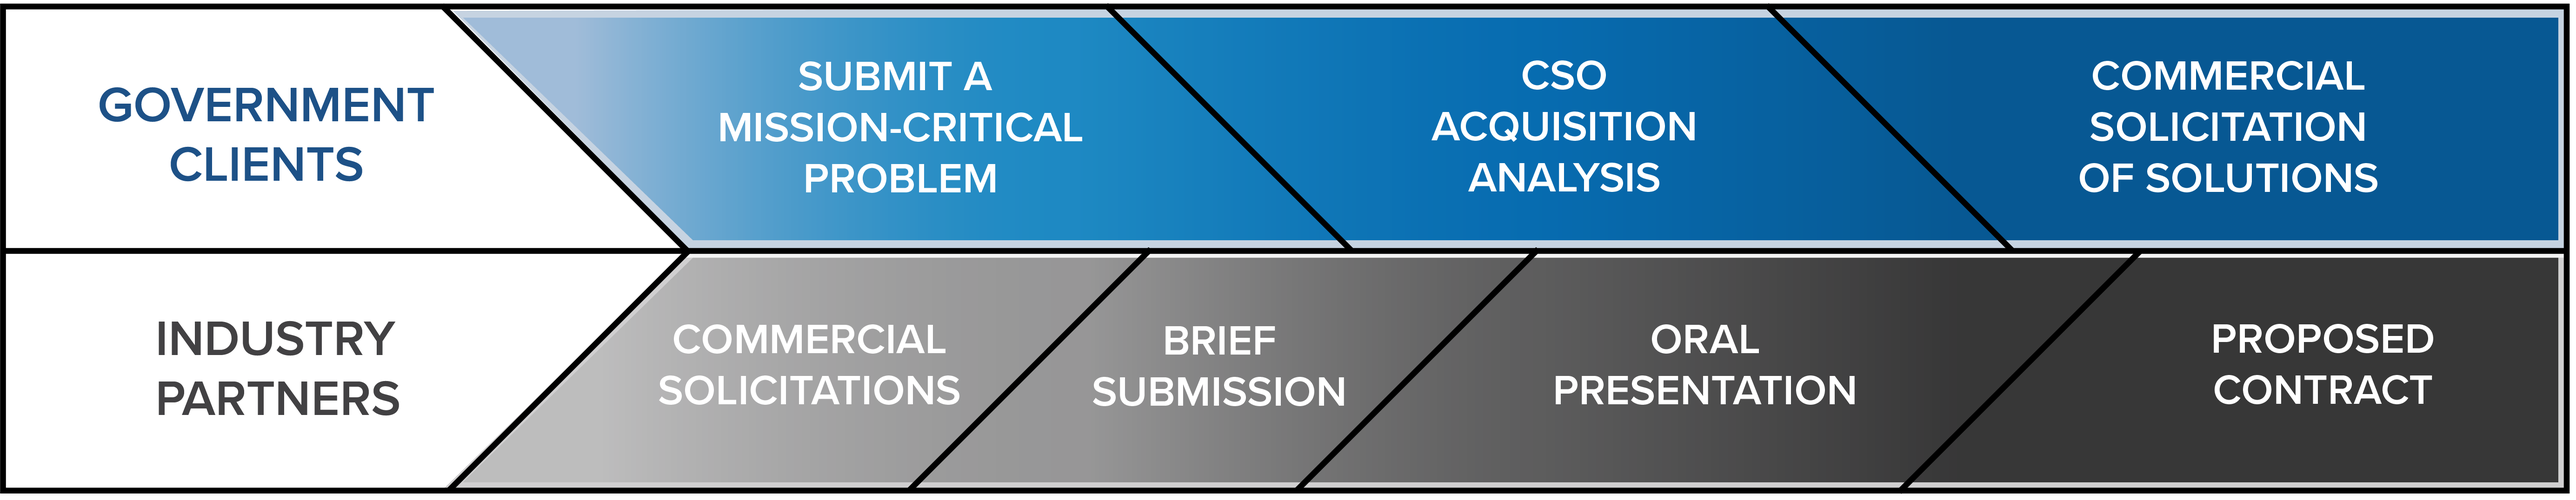
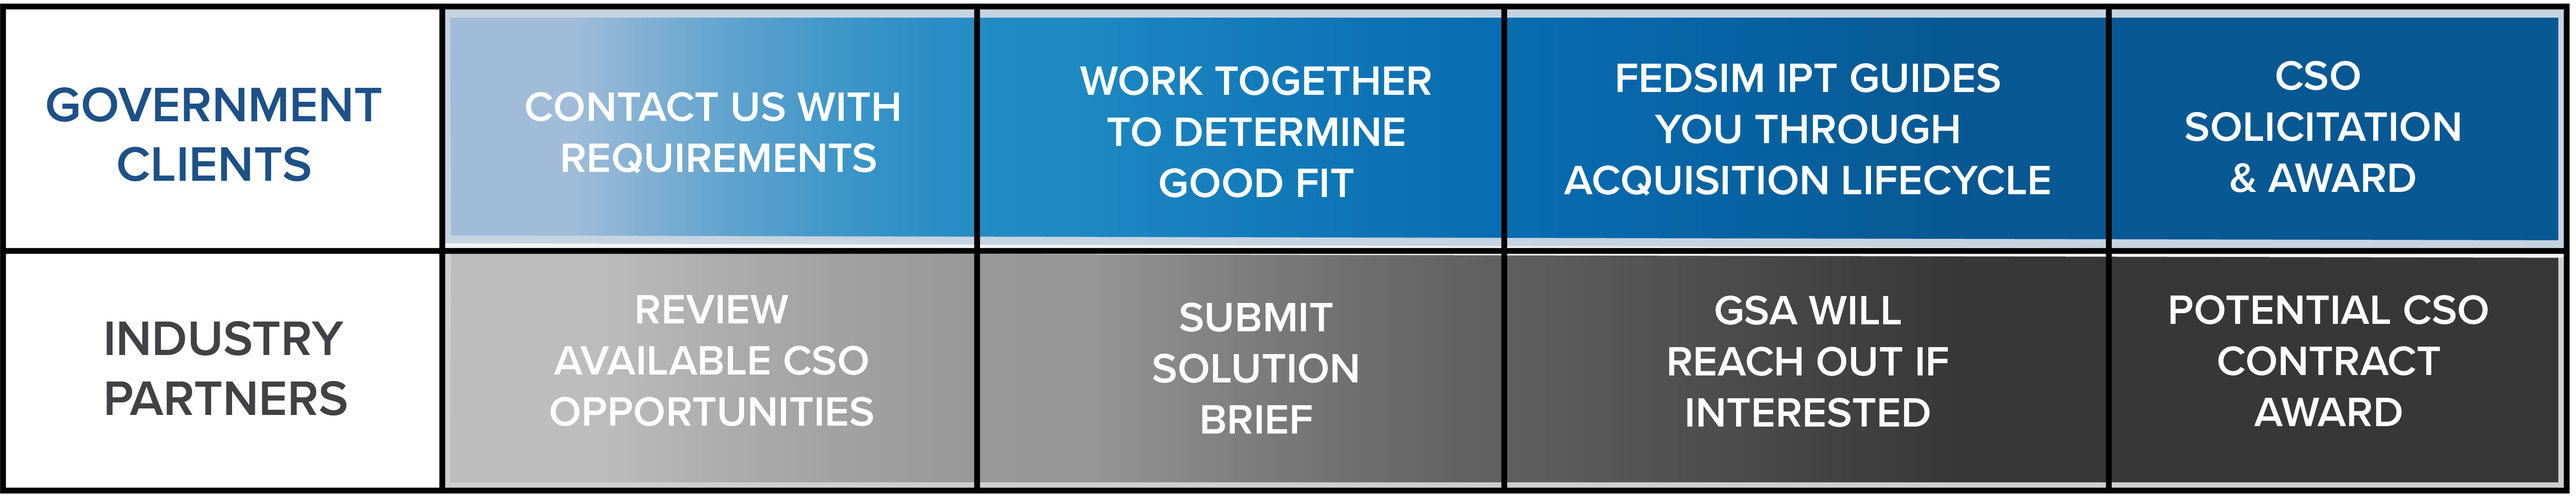
Updated CSO

diff --git a/_includes/cso.html b/_includes/cso.html
@@ -1,5 +1,21 @@
 
+<div class="flex-wrapper-big submenubar v-buffer">
+    <div class="one-fourth section-btn">
+        <a href="#programs"><b>CSO Programs</b></a>
+    </div>
+
+    <div class="bio-spacer"></div>
+
+    <div class="one-fourth section-btn">
+        <a href="#opportunities"><b>CSO Opportunities</b></a>
+    </div>
+</div>
+
 <div class="flex-wrapper-big">
+    {% asset CSO_CHART_FINAL.png alt="CSO" %}
+</div>
+
+<div id="programs" class="flex-wrapper-big">
     <div class="infoblock">
         <h2>Commercial Solutions Opening (CSO) Program</h2>
         <p>The General Services Administration (GSA) established a pilot program to competitively 
@@ -8,14 +24,11 @@
     </div>
 </div>
 
-<div class="flex-wrapper-big">
-    {% asset CSO_CHART_FINAL.png alt="CSO" %}
-</div>
+
 
 <div class="flex-wrapper-big">
     <div class="infoblock">
         <h2>Interested in learning more?</h2>
-        <br>
     </div>
 </div>
 
@@ -38,7 +51,7 @@
             <h2>Industry Partners</h2>
             <p class="learnblock-hover-text">You can respond to compete on an opportunity by submitting a brief about your solution. 
                 If there is a good match between your solution and our client's requirements, 
-                you may be invited to submit a full proposal.</p>
+                you will be asked to provide a full proposal.</p>
         </div>
     </div>
 </div>
@@ -63,12 +76,12 @@
     </div>
 </div>
 <hr class="highlight-line">
-<div class="flex-wrapper-big">
+<div id="opportunities" class="flex-wrapper-big">
     <div class="infoblock">
         <h3>Submit a Commercial Solutions Opening (CSO) Solution Brief</h3>
         <p>FEDSIM is accepting solutions briefs in response to the CSO solicitation(s) openings below. 
             Submissions received after indicated time periods will not be considered. 
-            Please review the example <a href="https://fedsim.gsa.gov/PIRC_CSO_Solicitation_Terms-and-Conditions_Sections_6-7.pdf" target="_new"><b>terms and conditions</b></a>, 
+            Please review the example <a href="https://fedsim.gsa.gov/PIRC_CSO_Solicitation_Terms-and-Conditions_Sections_6-7.pdf" target="_new">terms and conditions</a>, 
             which are indicative of contract terms that will be applicable and incorporated in any resulting award from the CSO.</p>
     </div>
 </div>

diff --git a/_assets/css/index.scss b/_assets/css/index.scss
@@ -72,6 +72,7 @@ p{
 
 
 //General stylings
+
 .big-titles{
   font-size: 4em;
   margin-block-start: auto;
